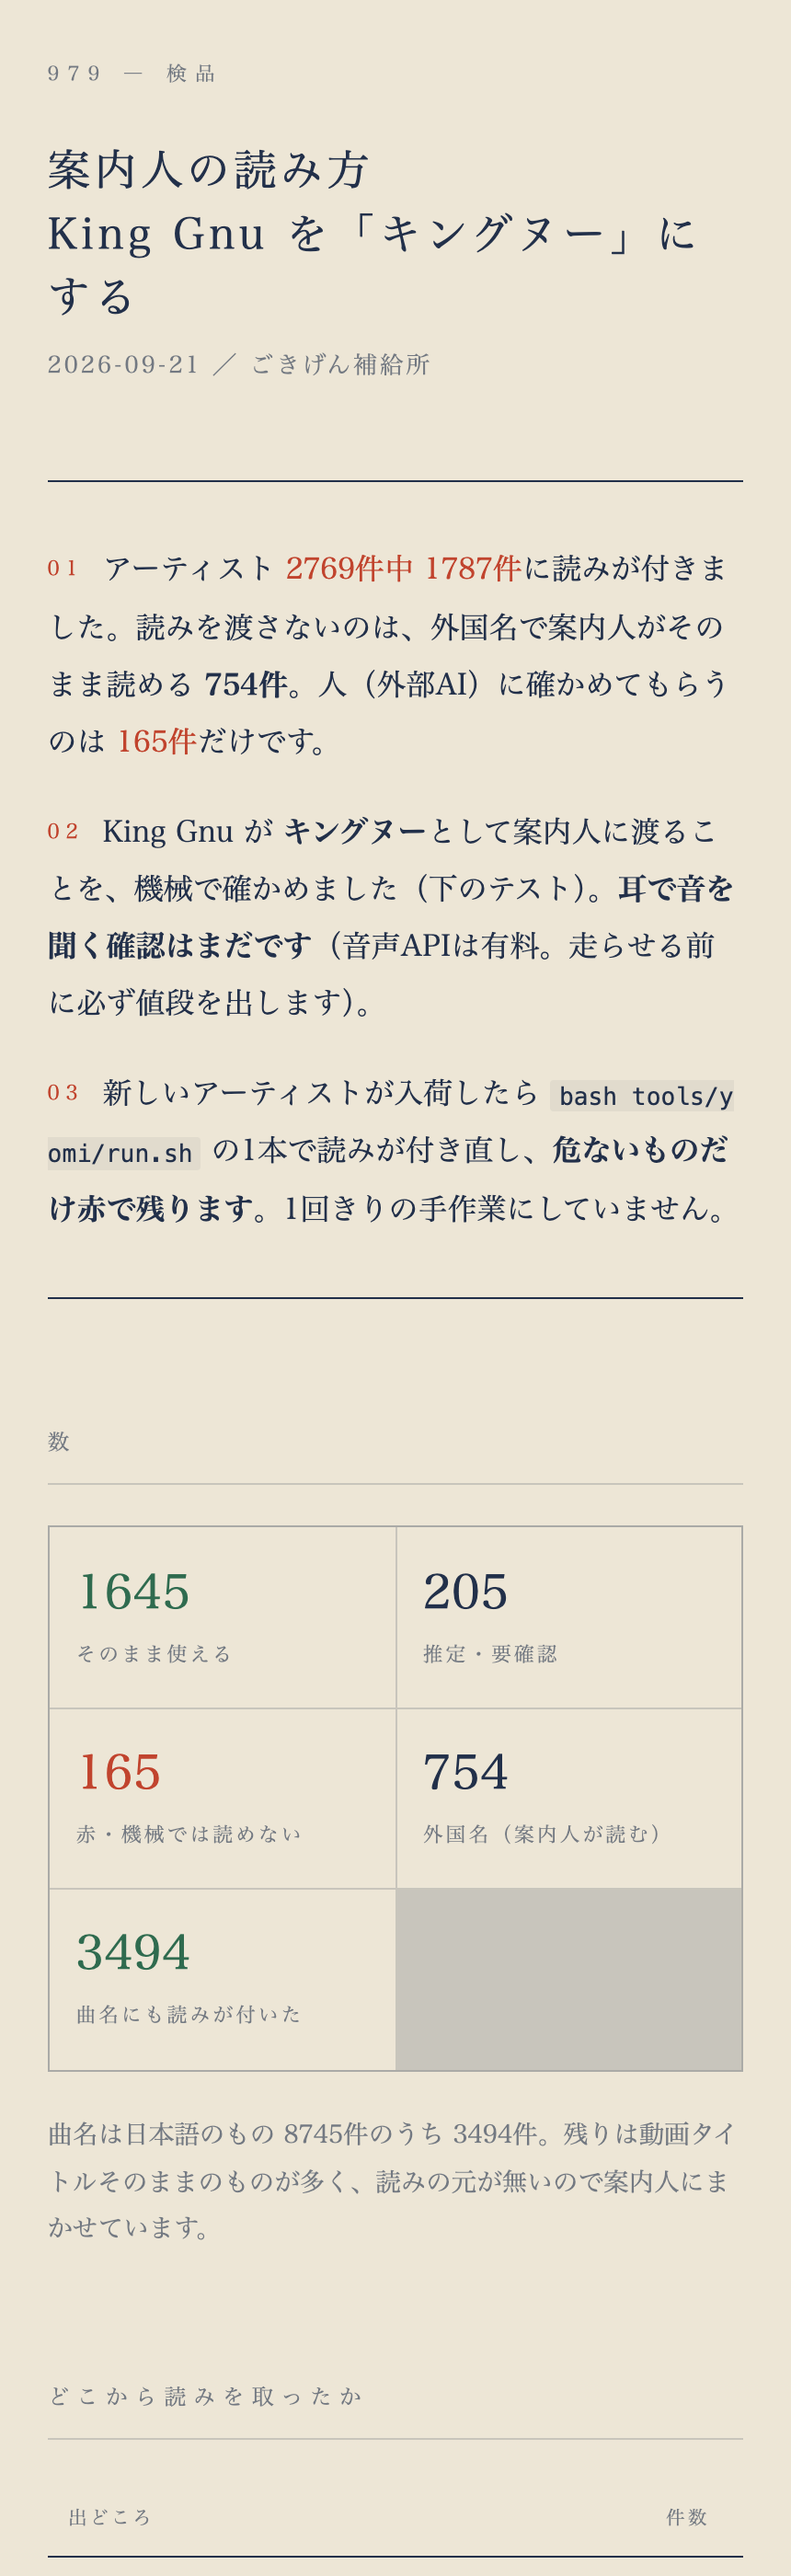
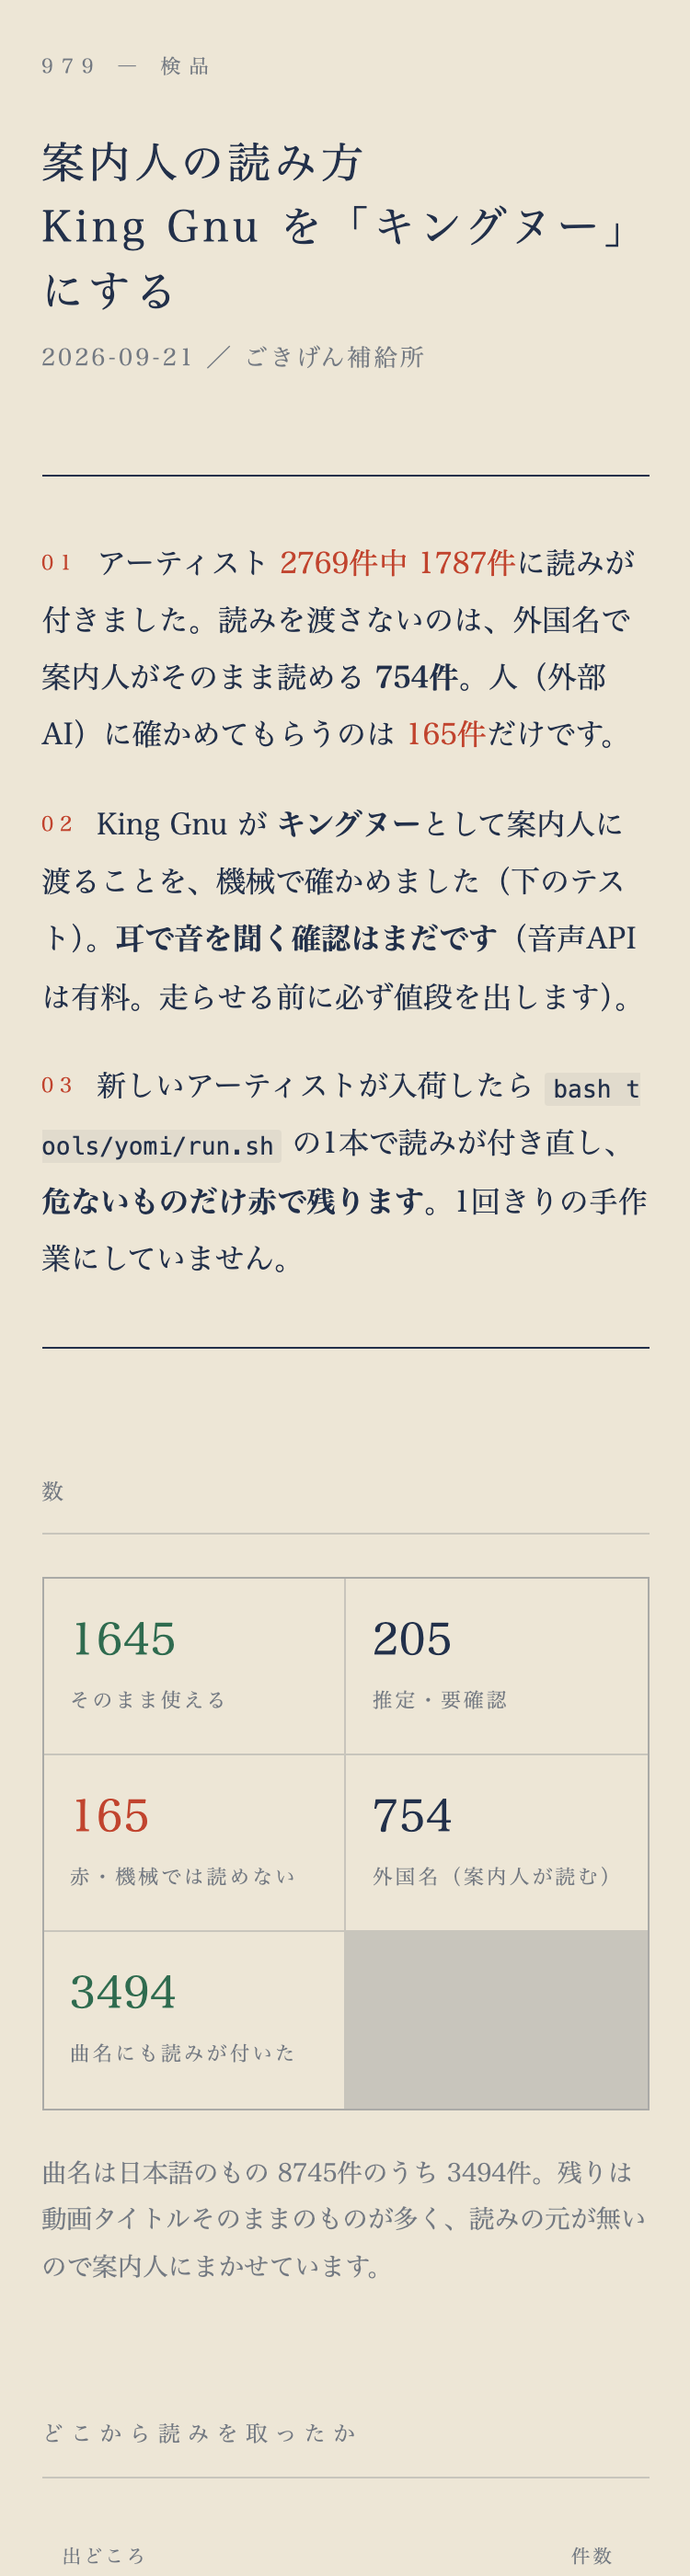
画面・共有資料・道具の更新 10:43

diff --git a/share/check/979-yomi.html b/share/check/979-yomi.html
@@ -62,6 +62,7 @@ code{font-family:ui-monospace,SFMono-Regular,Menlo,monospace;font-size:.82em;
 <div class="card red"><b>149</b><span>赤・機械では読めない</span></div>
 <div class="card "><b>451</b><span>外国名（案内人が読む）</span></div>
 <div class="card ok"><b>3238</b><span>曲名にも読みが付いた</span></div>
+<div class="card "><b>8020</b><span>日本語の曲名ぜんぶ</span></div>
 </div>
 <p class="note">曲名は日本語のもの 8020件のうち 3238件。残りは動画タイトルそのままのものが多く、読みの元が無いので案内人にまかせています。</p>
 <h2>どこから読みを取ったか</h2>

diff --git a/tools/yomi/make_check_page.py b/tools/yomi/make_check_page.py
@@ -112,6 +112,7 @@ code{font-family:ui-monospace,SFMono-Regular,Menlo,monospace;font-size:.82em;
         ("red", st["red"], "赤・機械では読めない"),
         ("", st["foreign_auto"], "外国名（案内人が読む）"),
         ("ok", st["songs_dict"], "曲名にも読みが付いた"),
+        ("", st["songs_ja"], "日本語の曲名ぜんぶ"),
     ]:
         A('<div class="card %s"><b>%d</b><span>%s</span></div>' % (cls, n, lab))
     A('</div>')
